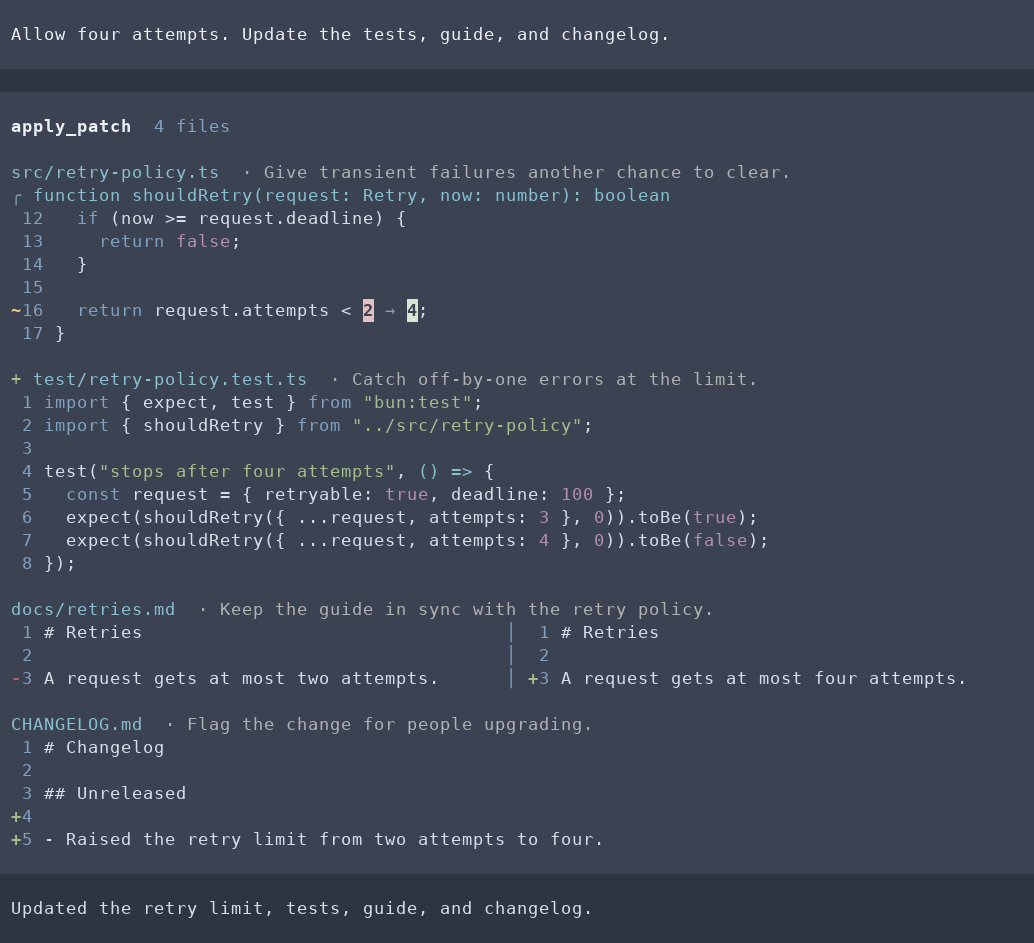
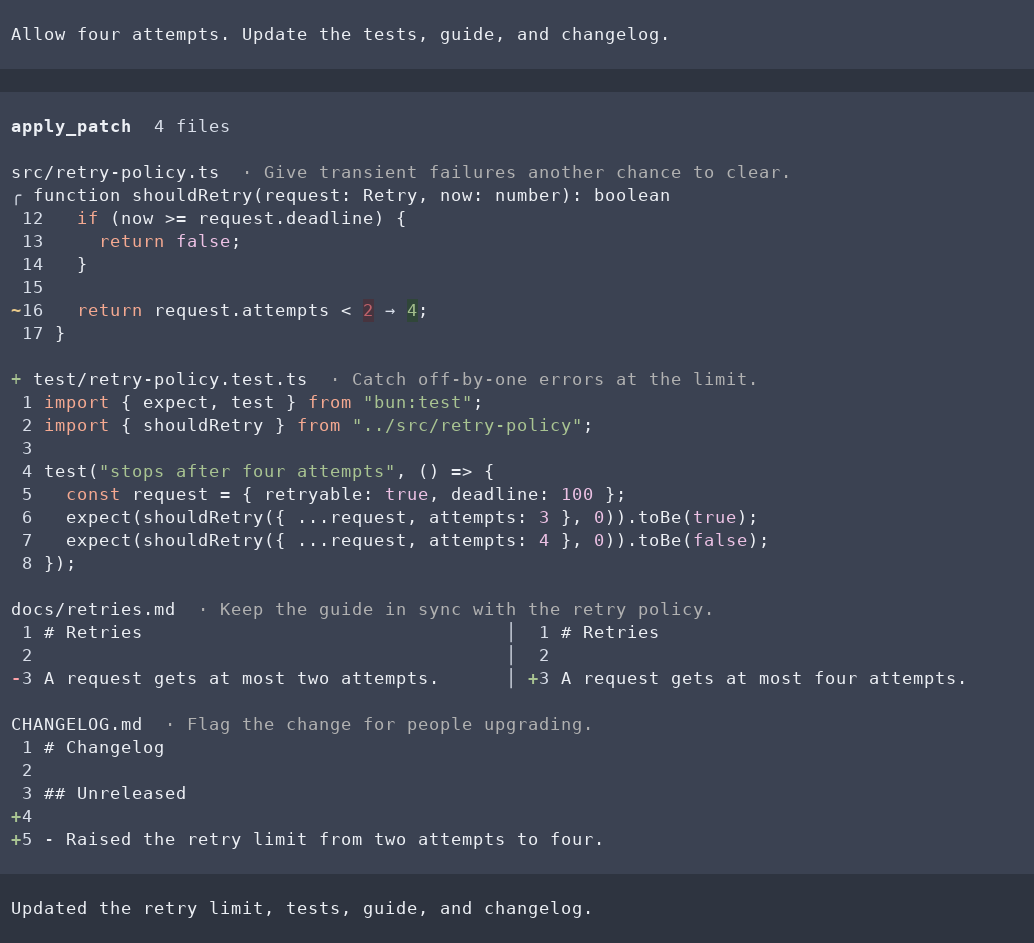
style(diff): restore Studio word colors on Tree-sitter demo highlights

diff --git a/tests/diagnostics.test.ts b/tests/diagnostics.test.ts
@@ -1,5 +1,6 @@
 import { editFileHeading, syntaxDiffRows } from "../code-intelligence/diff.ts";
 import type { SyntaxReplacement } from "../code-intelligence/syntax-analysis.ts";
+import studioTheme from "../resources/theme.json" with { type: "json" };
 import assert from "node:assert/strict";
 import { test } from "node:test";
 import type {
@@ -290,6 +291,13 @@ await test("file reasons share the heading and a creation marks the file once", 
 await test("token fills and gutter roles survive compact, paired and wrapped diffs", () => {
   const theme = {
     ...plain,
+    name: studioTheme.name,
+    colors: {
+      ...plain.colors,
+      toolSuccessBg: parseColor(studioTheme.colors.toolSuccessBg),
+      toolDiffRemoved: parseColor(studioTheme.colors.toolDiffRemoved),
+      toolDiffAdded: parseColor(studioTheme.colors.toolDiffAdded),
+    },
     fg(role: ThemeColor, text: string) {
       const ansi =
         role === "warning"
@@ -322,6 +330,7 @@ await test("token fills and gutter roles survive compact, paired and wrapped dif
   );
   const light = {
     ...theme,
+    name: "custom-light",
     appearance: "light" as const,
     colors: {
       ...theme.colors,
@@ -366,41 +375,69 @@ await test("token fills and gutter roles survive compact, paired and wrapped dif
     );
     const view = rows.join("\n");
     assert.ok(rows.every((row) => visibleWidth(row) <= width));
-    assert.ok(view.includes("\x1b[48;2;229;192;195m"), "removal tint");
-    assert.ok(view.includes("\x1b[48;2;218;229;209m"), "addition tint");
-    assert.ok(view.includes("\x1b[38;2;59;66;82m"), "dark ink on light fills");
+    assert.ok(view.includes("\x1b[48;2;71;52;63m"), "dark rose removal tint");
+    assert.ok(view.includes("\x1b[48;2;48;70;57m"), "dark green addition tint");
+    assert.ok(
+      view.includes("\x1b[38;2;191;97;106m"),
+      "original red removal ink",
+    );
+    assert.ok(
+      view.includes("\x1b[38;2;163;190;140m"),
+      "original green addition ink",
+    );
     if (withIssue && width === 120)
       assert.ok(view.includes(`${gray}Out of range`));
     if (!withIssue) {
       assert.ok(view.includes("\x1b[33m~\x1b[39m\x1b[34m12 "));
+      assert.ok(view.includes("\x1b[38;2;191;97;106m\x1b[48;2;71;52;63m2"));
+      assert.ok(view.includes("\x1b[38;2;163;190;140m\x1b[48;2;48;70;57m4"));
       assert.match(stripTerminalSequences(view), /return attempts < 2 → 4;/u);
     } else {
       assert.ok(view.includes("\x1b[4:3m"));
     }
+    const custom = syntaxDiffRows(
+      diff,
+      "retry.ts",
+      light,
+      width,
+      "/project",
+      (text) => text.split("\n"),
+      {
+        min_split_columns: 40,
+        inline_diagnostics: true,
+        removed_background: "#080808",
+        added_background: "#f0f0f0",
+      },
+      issue,
+      { replacements: [change] },
+    ).join("\n");
+    assert.ok(
+      custom.includes("\x1b[38;2;255;162;168m\x1b[48;2;8;8;8m"),
+      "readable custom theme ink survives a configured dark fill",
+    );
+    assert.ok(
+      custom.includes("\x1b[38;2;0;0;0m\x1b[48;2;240;240;240m"),
+      "unreadable diff ink adapts to a configured light fill",
+    );
   }
-  const custom = syntaxDiffRows(
+  const otherDark = syntaxDiffRows(
     diff,
     "retry.ts",
-    light,
+    { ...theme, name: "custom-dark" },
     80,
     "/project",
+    (text) => text.split("\n"),
     undefined,
-    {
-      min_split_columns: 40,
-      inline_diagnostics: true,
-      removed_background: "#080808",
-      added_background: "#f0f0f0",
-    },
     [],
     { replacements: [change] },
   ).join("\n");
   assert.ok(
-    custom.includes("\x1b[38;2;255;255;255m\x1b[48;2;8;8;8m"),
-    "light ink on overridden dark fill",
+    otherDark.includes("\x1b[38;2;255;162;168m\x1b[48;2;71;52;63m2"),
+    "other dark themes retain their removal ink",
   );
   assert.ok(
-    custom.includes("\x1b[38;2;32;32;32m\x1b[48;2;240;240;240m"),
-    "light-theme ink on overridden light fill",
+    otherDark.includes("\x1b[38;2;169;196;146m\x1b[48;2;48;70;57m4"),
+    "other dark themes retain their addition ink",
   );
 });
 

diff --git a/code-intelligence/diff.ts b/code-intelligence/diff.ts
@@ -36,8 +36,8 @@ type HeadingTheme = Pick<Theme, "fg" | "bold" | "style" | "appearance"> & {
   colors: Pick<Theme["colors"], "toolSuccessBg">;
 };
 type DiffTheme = HeadingTheme &
-  Pick<Theme, "bg"> & {
-    colors: Pick<Theme["colors"], "text" | "toolDiffAdded" | "toolDiffRemoved">;
+  Pick<Theme, "bg" | "name"> & {
+    colors: Pick<Theme["colors"], "toolDiffAdded" | "toolDiffRemoved">;
   };
 
 export function editFileHeading(
@@ -60,6 +60,10 @@ export function editFileHeading(
 }
 
 const white = rgbColor(255, 255, 255);
+const studioWordColors = {
+  toolDiffRemoved: { ink: parseColor("#bf616a"), tint: parseColor("#47343f") },
+  toolDiffAdded: { ink: parseColor("#a3be8c"), tint: parseColor("#304639") },
+};
 
 function luminance(color: Color) {
   const { r, g, b } = colorToRgb(color);
@@ -70,12 +74,19 @@ function luminance(color: Color) {
   return 0.2126 * linear(r) + 0.7152 * linear(g) + 0.0722 * linear(b);
 }
 
-function readableInk(background: Color, preferred: Color) {
-  const bg = luminance(background);
-  const fg = luminance(preferred);
-  if ((Math.max(bg, fg) + 0.05) / (Math.min(bg, fg) + 0.05) >= 4.5)
-    return preferred;
-  return bg > 0.179 ? rgbColor(0, 0, 0) : white;
+function contrast(a: Color, b: Color) {
+  const first = luminance(a);
+  const second = luminance(b);
+  return (Math.max(first, second) + 0.05) / (Math.min(first, second) + 0.05);
+}
+
+function readableInk(
+  background: Color,
+  preferred: Color,
+  minimumContrast = 4.5,
+) {
+  if (contrast(background, preferred) >= minimumContrast) return preferred;
+  return luminance(background) > 0.179 ? rgbColor(0, 0, 0) : white;
 }
 
 function inlayText(theme: HeadingTheme, text: string) {
@@ -327,20 +338,26 @@ export function syntaxDiffRows(
     );
   };
   const tokens = changedTokens(lines, details.replacements);
-  const token = (
-    text: string,
-    tone: "toolDiffAdded" | "toolDiffRemoved",
-    override?: string,
-  ) => {
-    const bg =
-      override === undefined
-        ? mixColors(theme.colors[tone], white, 0.6, "srgb")
-        : parseColor(override);
+  const token = (text: string, tone: "toolDiffAdded" | "toolDiffRemoved") => {
+    const { ink: studioInk, tint } = studioWordColors[tone];
     const ink =
-      theme.appearance === "dark"
-        ? theme.colors.toolSuccessBg
-        : theme.colors.text;
-    return theme.style(text, { bg, fg: readableInk(bg, ink), bold: true });
+      theme.name === "dotfiles" && theme.appearance === "dark"
+        ? studioInk
+        : theme.colors[tone];
+    const surface = theme.colors.toolSuccessBg;
+    const override =
+      tone === "toolDiffRemoved"
+        ? display.removed_background
+        : display.added_background;
+    const bg =
+      override !== undefined
+        ? parseColor(override)
+        : theme.appearance === "dark"
+          ? tint
+          : mixColors(surface, ink, 0.12, "srgb");
+    // Preserve the original diff ink whenever it is as legible as on the tool surface.
+    const minimumContrast = Math.min(4.5, contrast(ink, surface));
+    return theme.style(text, { bg, fg: readableInk(bg, ink, minimumContrast) });
   };
   const markedCode = (line: DiffLine, compact: boolean) => {
     const removed = line.prefix === "-";
@@ -349,9 +366,9 @@ export function syntaxDiffRows(
     if (change === undefined) return code;
     const text = removed ? change.original : change.updated;
     const fill = compact
-      ? token(change.original, "toolDiffRemoved", display.removed_background) +
+      ? token(change.original, "toolDiffRemoved") +
         theme.fg("dim", " → ") +
-        token(change.updated, "toolDiffAdded", display.added_background)
+        token(change.updated, "toolDiffAdded")
       : token(text, removed ? "toolDiffRemoved" : "toolDiffAdded");
     // Restore the file card after the token, or let the configured row tint take over.
     const painted = compact

diff --git a/README.md b/README.md
@@ -349,7 +349,7 @@ Studio asks for a brief, user-facing reason for each edited file. Pi’s `edit` 
 
 Studio uses Tree-sitter to parse the file versions that Pi actually reads and writes. When a hunk is inside an off-screen function, method, or type that Studio recognizes, its declaration appears above the code. Studio loads a local grammar by filename, including for TypeScript/TSX, JavaScript/JSX, Go, Rust, Python, Ruby, Bash, C++, C#, Java, PHP, PowerShell, CSS, INI, and JSON. These parsers work with LSP disabled. Studio saves the labels and changed token ranges with the edit so older diffs still refer to the code that was edited. If syntax analysis is unavailable, an approved language server can still supply an enclosing declaration.
 
-Edit diffs show additions or deletions alone in a single full-width column. When Tree-sitter identifies a single corresponding identifier or numeric literal on each changed line and the result fits, the surrounding code appears once, as in `retries: 2 → 4`. The old and new tokens have distinct removal and addition backgrounds. A change marker in the gutter uses a separate color from the line number. A change inside a comment, or an edit without saved syntax ranges, uses the full comparison. More complex edits, or replacements with an inline diagnostic on the changed line, show the old code on the left and the new code on the right when both sides meet the configured minimum code width. Narrower panes show a unified diff. Each side wraps independently without shifting subsequent paired rows. To change the cutoff, copy the `[display]` section from [config.example.toml](config.example.toml) into your Studio `config.toml`, set `display.min_split_columns` to a positive integer, and reload Pi. The default is 40 when the file or setting is absent. Set `display.added_background` or `display.removed_background` to a quoted `#RRGGBB` color to tint changed cells in split view and changed rows in unified view. With those settings omitted, full rows use the active tool background and compact replacements still highlight both changed tokens.
+Edit diffs show additions or deletions alone in a single full-width column. When Tree-sitter identifies a single corresponding identifier or numeric literal on each changed line and the result fits, the surrounding code appears once, as in `retries: 2 → 4`. In Studio’s Nord theme, the old token uses red text on dark rose and the new token uses green text on dark green. The arrow and surrounding code keep the normal tool background in the compact view. A change marker in the gutter uses a separate color from the line number. A change inside a comment, or an edit without saved syntax ranges, uses the full comparison. More complex edits, or replacements with an inline diagnostic on the changed line, show the old code on the left and the new code on the right when both sides meet the configured minimum code width. Narrower panes show a unified diff. Each side wraps independently without shifting subsequent paired rows. To change the cutoff, copy the `[display]` section from [config.example.toml](config.example.toml) into your Studio `config.toml`, set `display.min_split_columns` to a positive integer, and reload Pi. The default is 40 when the file or setting is absent. Set `display.added_background` or `display.removed_background` to a quoted `#RRGGBB` color to tint changed cells in split view and changed rows in unified view. With those settings omitted, full rows use the active tool background and compact replacements still highlight both changed tokens.
 
 The collapsed diagnostics view shows up to two distinct messages; expanding the native tool output shows the remaining bounded results. Diagnostics that arrive later update the same edit result without taking focus or starting another assistant turn; no diagnostics command is needed. Late results are retained in hidden native session messages so the model and restored chat history receive them. Missing servers do not fail the edit. Pending results and diagnostics without a document version remain labeled; neither establishes a clean file. Shell edits are refreshed on subsequent LSP queries. Servers and document state belong to the active Pi runtime and project and are released on reload, shutdown, or a `/cd` session replacement. Read-only delegated snapshots do not load this extension.
 
